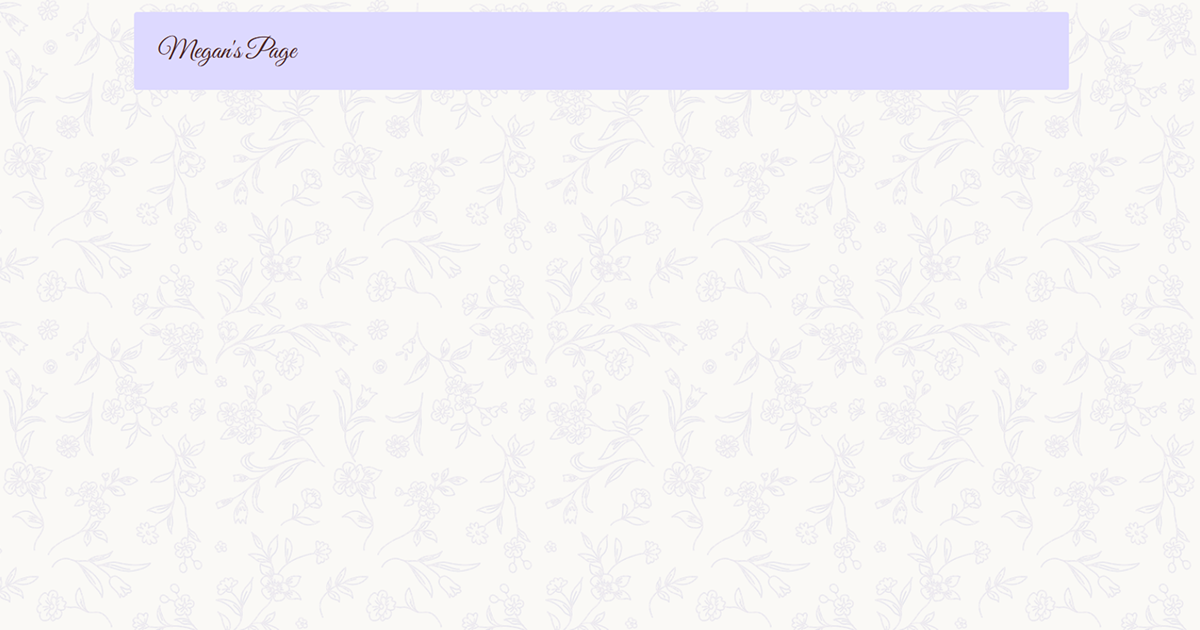
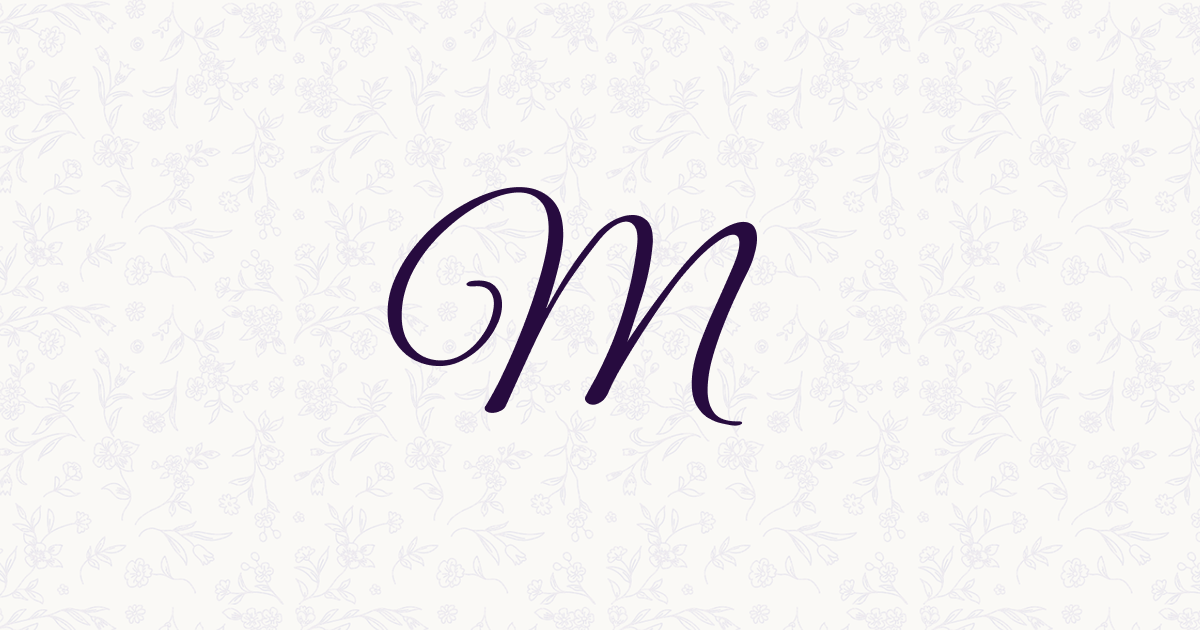
default-homepage

Changed region(s): [[0.0925, 0.0, 0.8942, 0.1508], [0.3083, 0.3016, 0.6475, 0.6937]]

diff --git a/app/(blog)/layout.tsx b/app/(blog)/layout.tsx
@@ -21,7 +21,7 @@ export const metadata: Metadata = {
         type: 'website',
         images: [
             {
-                url: `${SITE_URL}/icons/icon-192x192.png`,
+                url: `${SITE_URL}/assets/default-homepage.png`,
                 width: 1200,
                 height: 630,
                 alt: `Megan's Page`,
@@ -32,7 +32,7 @@ export const metadata: Metadata = {
         card: 'summary_large_image',
         title: `Megan's Page`,
         description: 'Welcome to my blog!',
-        images: [`${SITE_URL}/icons/icon-48x48.png`],
+        images: [`${SITE_URL}/icons/icon-192x192.png`],
     },
 }
 
